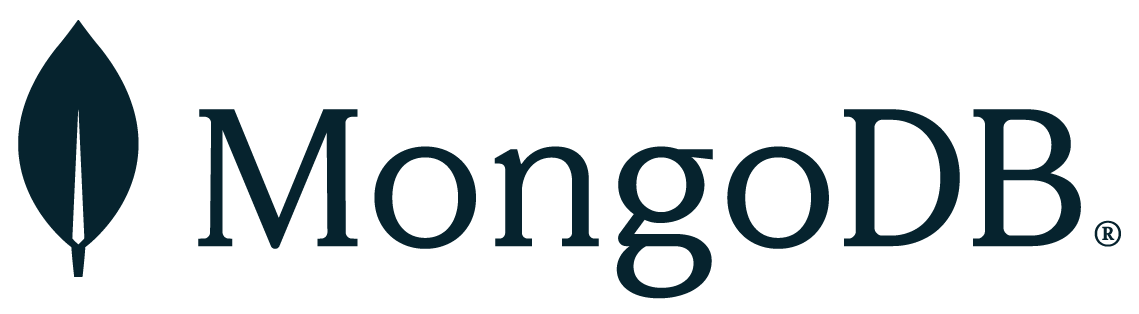
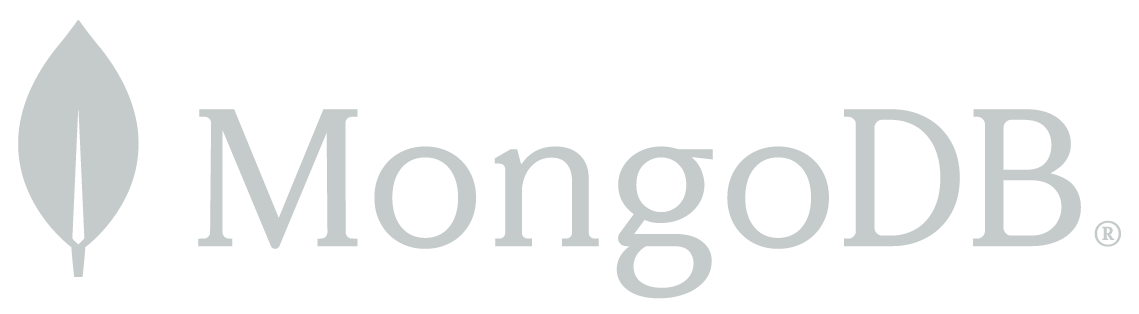
Added mongodb to skills

Changed region(s): [[0.1536, 0.3439, 0.9833, 0.9745], [0.0, 0.0573, 0.1229, 0.8885]]

diff --git a/components/Header.tsx b/components/Header.tsx
@@ -172,6 +172,21 @@ export const Header: React.FC<HeaderProps> = ({}) => {
               />
               <Image
                 className='brightness-50 hover:brightness-0 dark:brightness-100 dark:hover:brightness-200'
+                src='/mongo.png'
+                width={
+                  width != null && width > 1200
+                    ? 1139 * heightToThirty(314)
+                    : (1139 * heightToThirty(314)) / 1.3
+                }
+                height={
+                  width != null && width > 1200
+                    ? 314 * heightToThirty(314)
+                    : (314 * heightToThirty(314)) / 1.3
+                }
+                alt='tailwindcss-logo'
+              />
+              <Image
+                className='brightness-50 hover:brightness-0 dark:brightness-100 dark:hover:brightness-200'
                 src='/python.png'
                 width={
                   width != null && width > 1200
